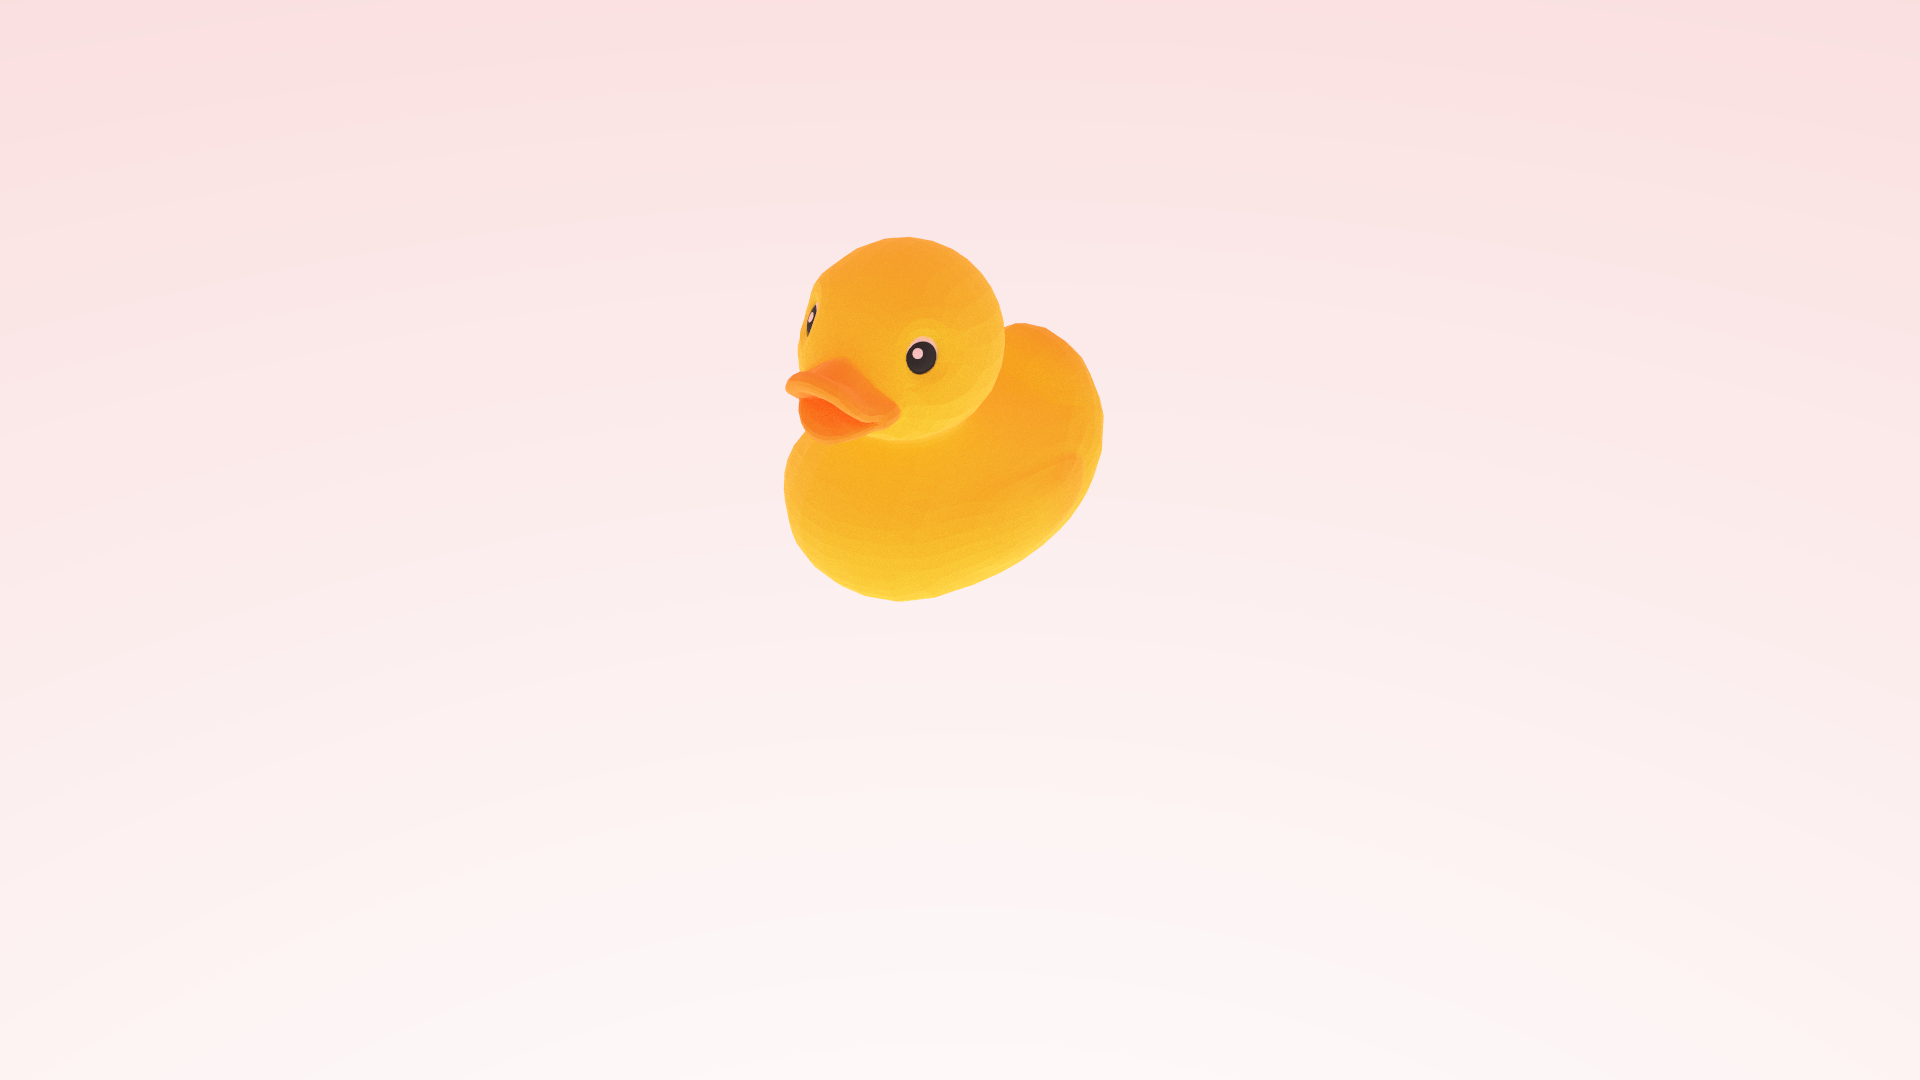
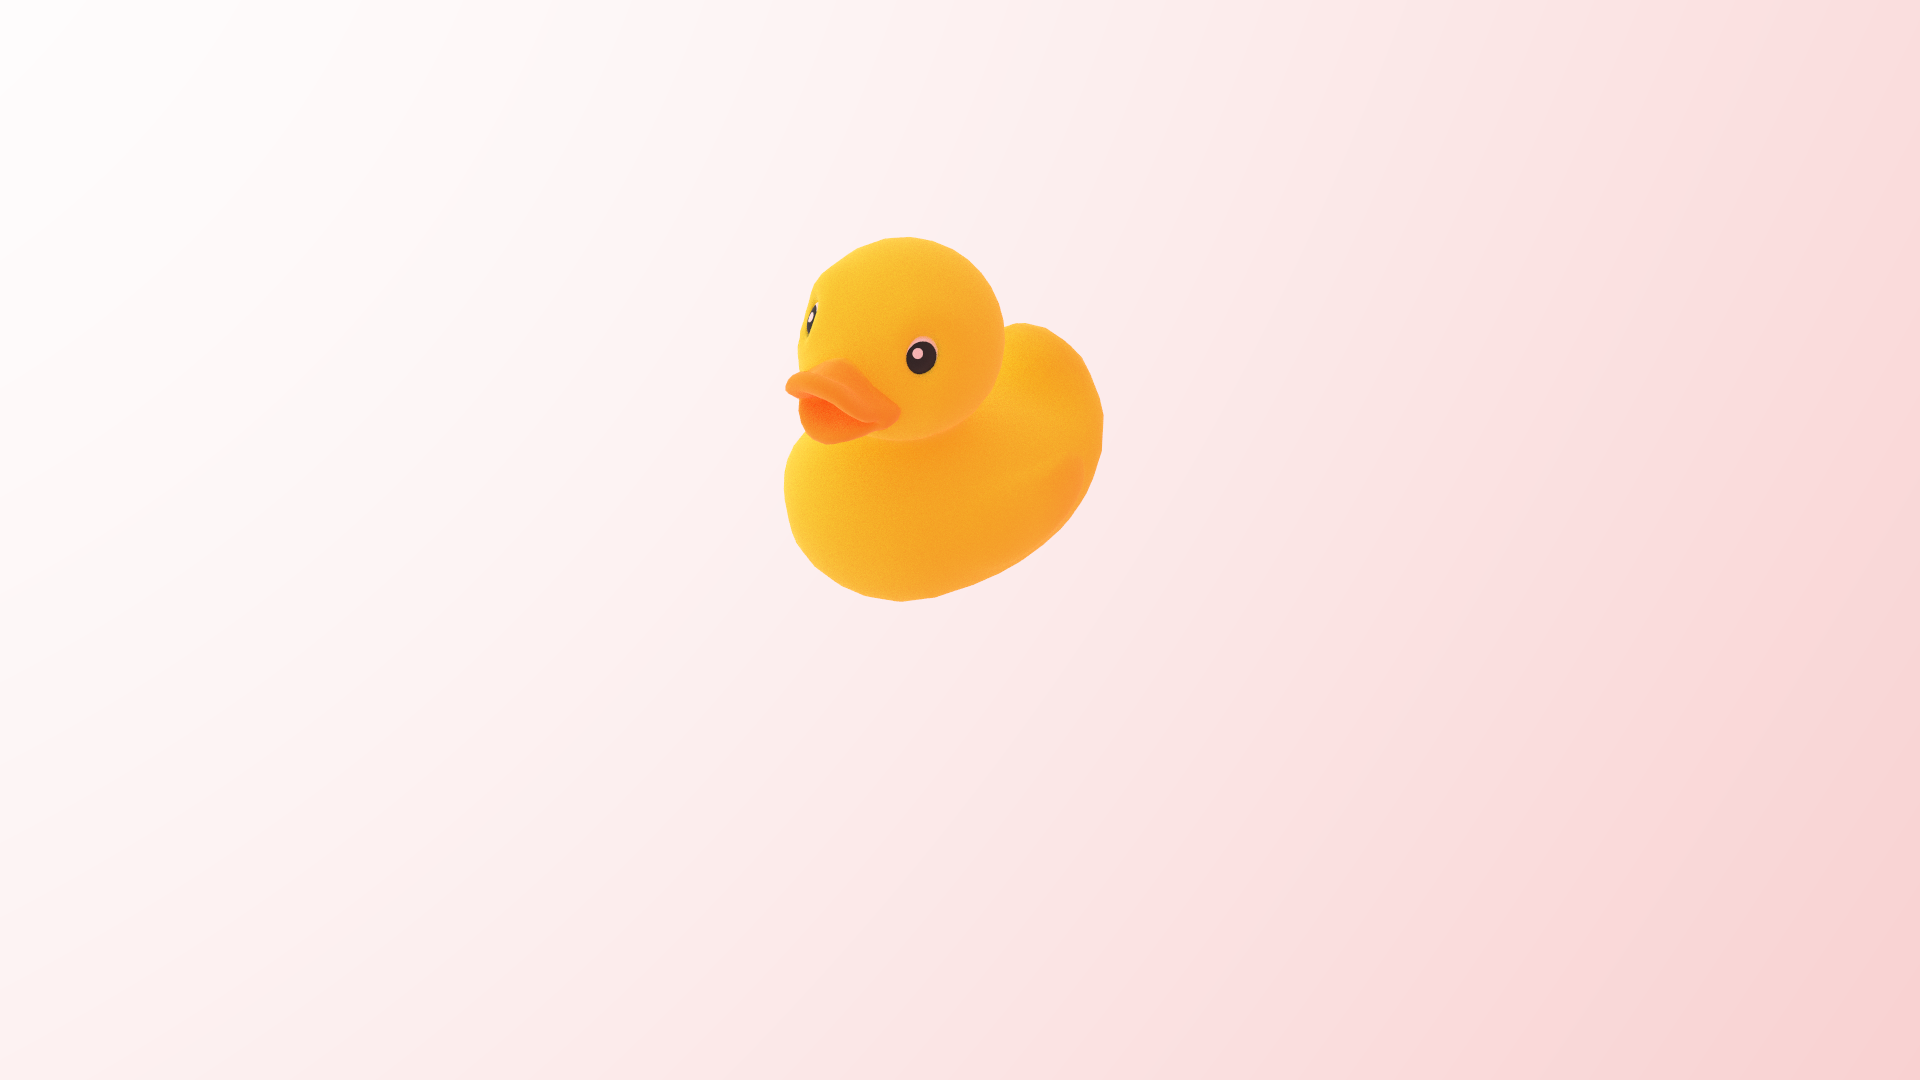
123

diff --git a/src/engine/scene.rs b/src/engine/scene.rs
@@ -314,7 +314,6 @@ impl Scene {
 
                 for (i, normal) in normals.iter_mut().enumerate() {
                     let triangle_normal = (positions[i][0] - positions[i][1]).cross(positions[i][0] - positions[i][2]).normalize();
-                    *normal = [triangle_normal, triangle_normal, triangle_normal];
 
                     let delta_pos1 = positions[i][1] - positions[i][0];
                     let delta_pos2 = positions[i][2] - positions[i][0];
@@ -328,15 +327,15 @@ impl Scene {
                     let binormal = (delta_pos2 * delta_uv1.x - delta_pos1 * delta_uv2.x) * r; 
 
                     let tangent = [
-                        tangent - normal[0].dot(tangent) * normal[0], 
-                        tangent - normal[1].dot(tangent) * normal[1], 
-                        tangent - normal[2].dot(tangent) * normal[2], 
+                        tangent - triangle_normal.dot(tangent) * triangle_normal, 
+                        tangent - triangle_normal.dot(tangent) * triangle_normal, 
+                        tangent - triangle_normal.dot(tangent) * triangle_normal, 
                     ];
 
                     let binormal = [
-                        binormal - normal[0].dot(binormal) * normal[0] - tangent[0].dot(binormal) * tangent[0], 
-                        binormal - normal[1].dot(binormal) * normal[1] - tangent[1].dot(binormal) * tangent[1], 
-                        binormal - normal[2].dot(binormal) * normal[2] - tangent[2].dot(binormal) * tangent[2], 
+                        binormal - triangle_normal.dot(binormal) * triangle_normal - tangent[0].dot(binormal) * tangent[0], 
+                        binormal - triangle_normal.dot(binormal) * triangle_normal - tangent[1].dot(binormal) * tangent[1], 
+                        binormal - triangle_normal.dot(binormal) * triangle_normal - tangent[2].dot(binormal) * tangent[2], 
                     ];
 
                     tangents.push(tangent);
@@ -537,7 +536,9 @@ impl Scene {
 
         for scene in gltf.scenes() {
             for node in scene.nodes() {
-                self.load_gltf_node(&mut context, &node, &Mat4::IDENTITY);
+                let node_transform_matrix = node.transform().matrix();
+                let matrix = &Mat4::from_cols_array_2d(&node_transform_matrix);
+                self.load_gltf_node(&mut context, &node, matrix);
             }
         }
 

diff --git a/src/engine/render_context.rs b/src/engine/render_context.rs
@@ -19,9 +19,9 @@ impl RenderContext {
     pub fn new() -> Self {
         Self {
             scene: Scene::new(),
-            spp: 50,
+            spp: 100,
             output: String::from("test.png"),
-            max_depth: 50,
+            max_depth: 20,
             resolution: 1024,
             debug_steps: false,
         }

diff --git a/src/engine/renderer.rs b/src/engine/renderer.rs
@@ -169,7 +169,7 @@ impl Renderer {
             type Output = WorkerOutput;
         
             fn execute(&mut self, inp: Self::Input) -> Self::Output {
-                const CACHE_LOCALITY_TILE_SIZE: usize = 1;
+                const CACHE_LOCALITY_TILE_SIZE: usize = 4;
 
                 let mut output = WorkerOutput::new();
 

diff --git a/README.md b/README.md
@@ -1,3 +1,3 @@
 # RayTracingContest
  
-![image](image.png)
+![image](duck.png)
